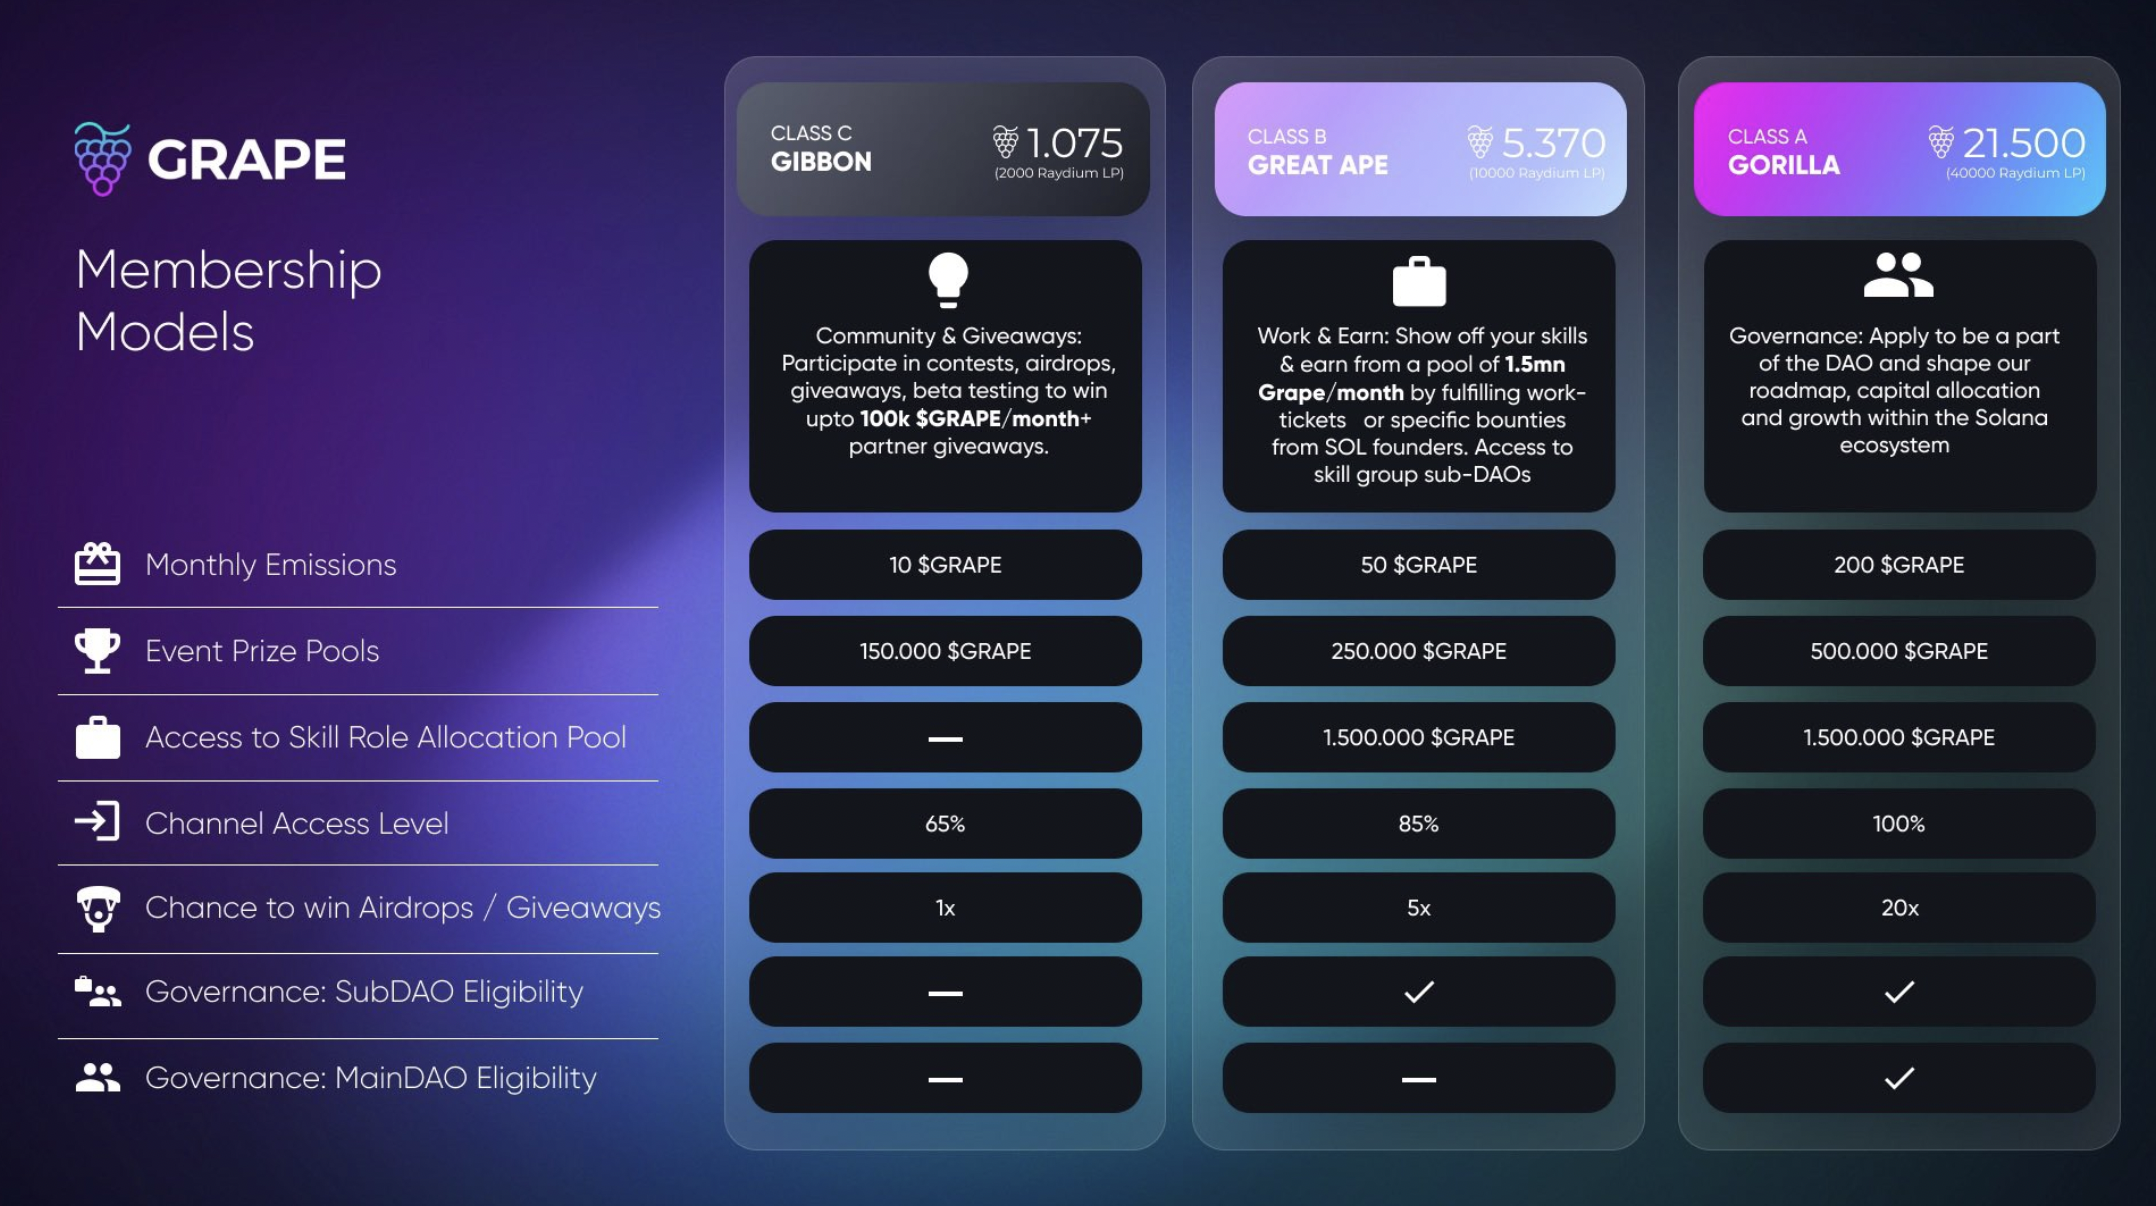
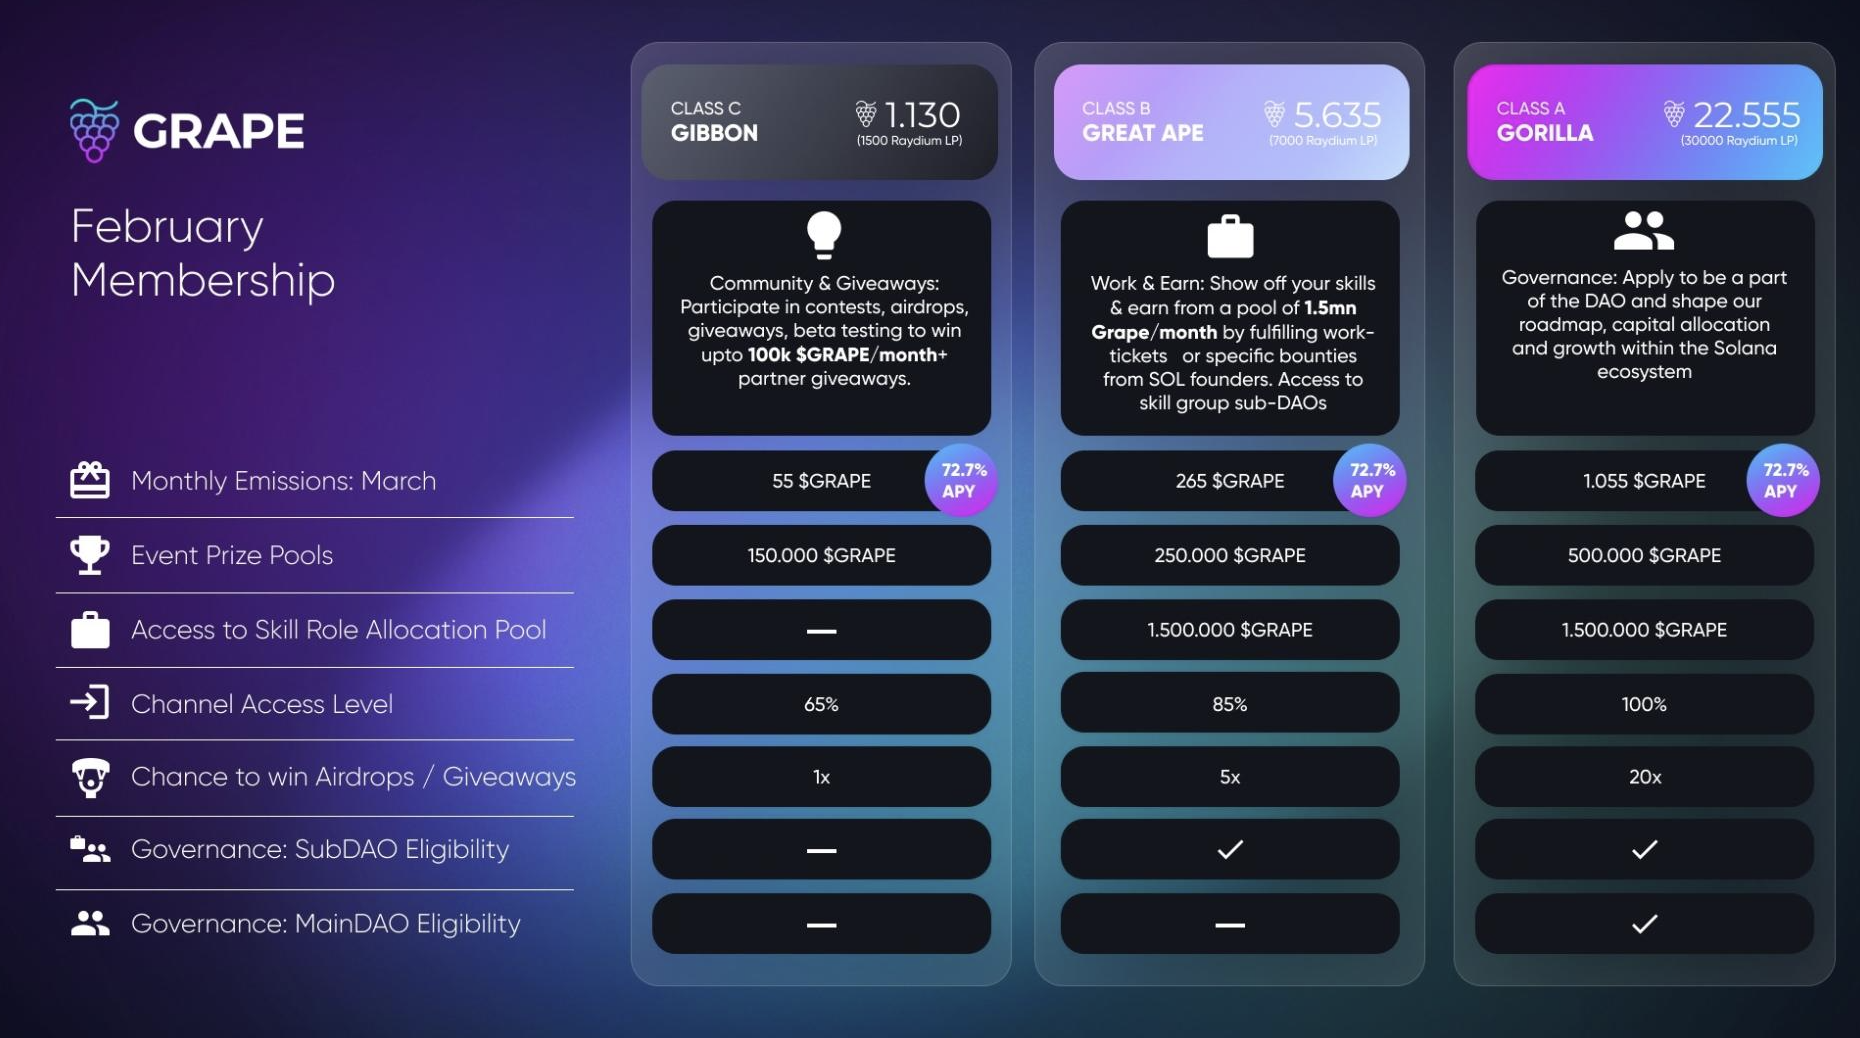
GitBook: [#84] No subject

diff --git a/grape-agency-services/community-services.md b/grape-agency-services/community-services.md
@@ -6,9 +6,9 @@ We are proud to be the center of excellence in the Solana ecosystem. We are even
 
 After 6 months of exponential development, we are ready to harness our community power and transform it into a monetizable and value-generating asset for our partners.
 
-The **Grape** **subDAOs** are our economic and social powerhouses. They sustain value generation for the whole Grape Community. Grape is now ready to expand and offer this value as a service.
+The **Grape** **subDAOs** are our economic and social powerhouses. They sustain value generation for the whole Grape Community. Grape is now ready to expand and offer this value as a service, in exchange for GRAPE.
 
-The services outlined in the attached document below are being provided by our different [SubDAOs](../grape-subdaos/subdao-units/) **** and supported by the Grape Community; **the true power users of Solana.**&#x20;
+The services outlined in the attached document below are being provided by our different [SubDAOs](../grape-subdaos/subdao-units/) **** and supported by the Grape Community; **the true power users of Solana.** &#x20;
 
 **In alignment with our core goal, to strengthen the Solana ecosystem, we're now offering Community Services as well as the formula of our community and DAO success to our partners**:
 

diff --git a/grape-community/get-involved/membership-classes.md b/grape-community/get-involved/membership-classes.md
@@ -4,7 +4,7 @@ _As explained under  <mark style="color:purple;">****</mark>_ [_<mark style="col
 
 ### **Class C - Gibbon**
 
-_1,130 $GRAPE or 1500 Raydium LP Tokens_
+_1,185 $GRAPE or 1200 Raydium LP Tokens_
 
 * Access to priority channels such as DAO, Solana NFTS, and much more&#x20;
 * Chatting in Grape Community Channels&#x20;
@@ -20,7 +20,7 @@ Membership requirements and emissions have been updated (see values above or in 
 
 ### **Class B - Great Ape**
 
-_5,635 $GRAPE or 7000 LP Tokens_
+_5,900 $GRAPE or 6000 LP Tokens_
 
 * Access to contests and events! 'Higher contest and events prize payouts of up to 250,000 every month! Class B members' price pools are 1/2 of Class A members' prize pools.
 * Access to AMAs and Q\&A chat&#x20;
@@ -37,7 +37,7 @@ Membership requirements and emissions have been updated (see values above or in 
 
 ### **Class A - Gorilla**
 
-_22,555 $GRAPE or 30000 LP Tokens_
+_23,600 $GRAPE or 24000 LP Tokens_
 
 * Application to the DAO! The DAO decides everything around the GRAPE emissions, partnerships, and incubator applications. This is the highest level of involvement in the Solana ecosystem&#x20;
 * Get on the stage! Access to AMAs and join the conversation during Q\&A&#x20;

diff --git a/grape-community/get-involved/README.md b/grape-community/get-involved/README.md
@@ -18,7 +18,7 @@ Grape Membership: A way to get entertained, learn, and network **Crypto-Style**!
 * Contests and events with $GRAPE prizes.
 * Guaranteed monthly emissions based on your Class.
 
-![These numbers reflect the necessary amount of $GRAPE to keep your membership next month since the first payout happens only after a full month of membership.](<../../.gitbook/assets/image (2) (1).png>)
+![These numbers reflect the necessary amount of $GRAPE to keep your membership next month since the first payout happens only after a full month of membership.](<../../.gitbook/assets/image (3).png>)
 
 Based on the current emission schedule, the inflation expected in 2022 from Community Emissions is the following:
 
@@ -41,11 +41,11 @@ To compensate token holders for the emission schedule and prevent the dilution o
 
 **As seen in the infographic above the token requirements per class increased by** \~4.9%, **for the month of February 2022, to:** &#x20;
 
-Class C - Gibbon 1,130 $GRAPE
+Class C - Gibbon 1,185 $GRAPE
 
-Class B - Great Ape 5,635 $GRAPE
+Class B - Great Ape 5,900 $GRAPE
 
-Class A - Gorilla 22,555 $GRAPE
+Class A - Gorilla 23,600 $GRAPE
 
 
 

diff --git a/grape-agency-services/sales-emissions.md b/grape-agency-services/sales-emissions.md
@@ -17,7 +17,7 @@ _Sales Emission Rewards depend on the Grape Membership Class:_
 1. Showcase what our community offers through the <mark style="color:purple;"></mark> [<mark style="color:purple;">**Grape Services document**</mark>](community-services.md).
 2. Once the project has confirmed interest in booking one or more of our services, feel free to reach out to _**Takisoul#5096**_ or _**Dim Selk#3870** _ on our [<mark style="color:purple;">**Discord**</mark>](https://discord.com/invite/greatape).
 3. To guarantee your Sales Emission, send the project you are talking to our [<mark style="color:purple;">**Contribution Page**</mark>](https://verify.grapes.network/#/contribute).
-4. Ask them to click on one of the arrows on the right, depending on the tokens they want to transfer and ask them to add your Discord username as the **Contribution Reason.**
+4. Ask them to click on one of the arrows on the right, type in the agreed GRAPE amount and ask them to add your Discord username as the **Contribution Reason.**
 
 ![The Contribution Reason will be visible since it's on-chain](../.gitbook/assets/Contribute)
 
